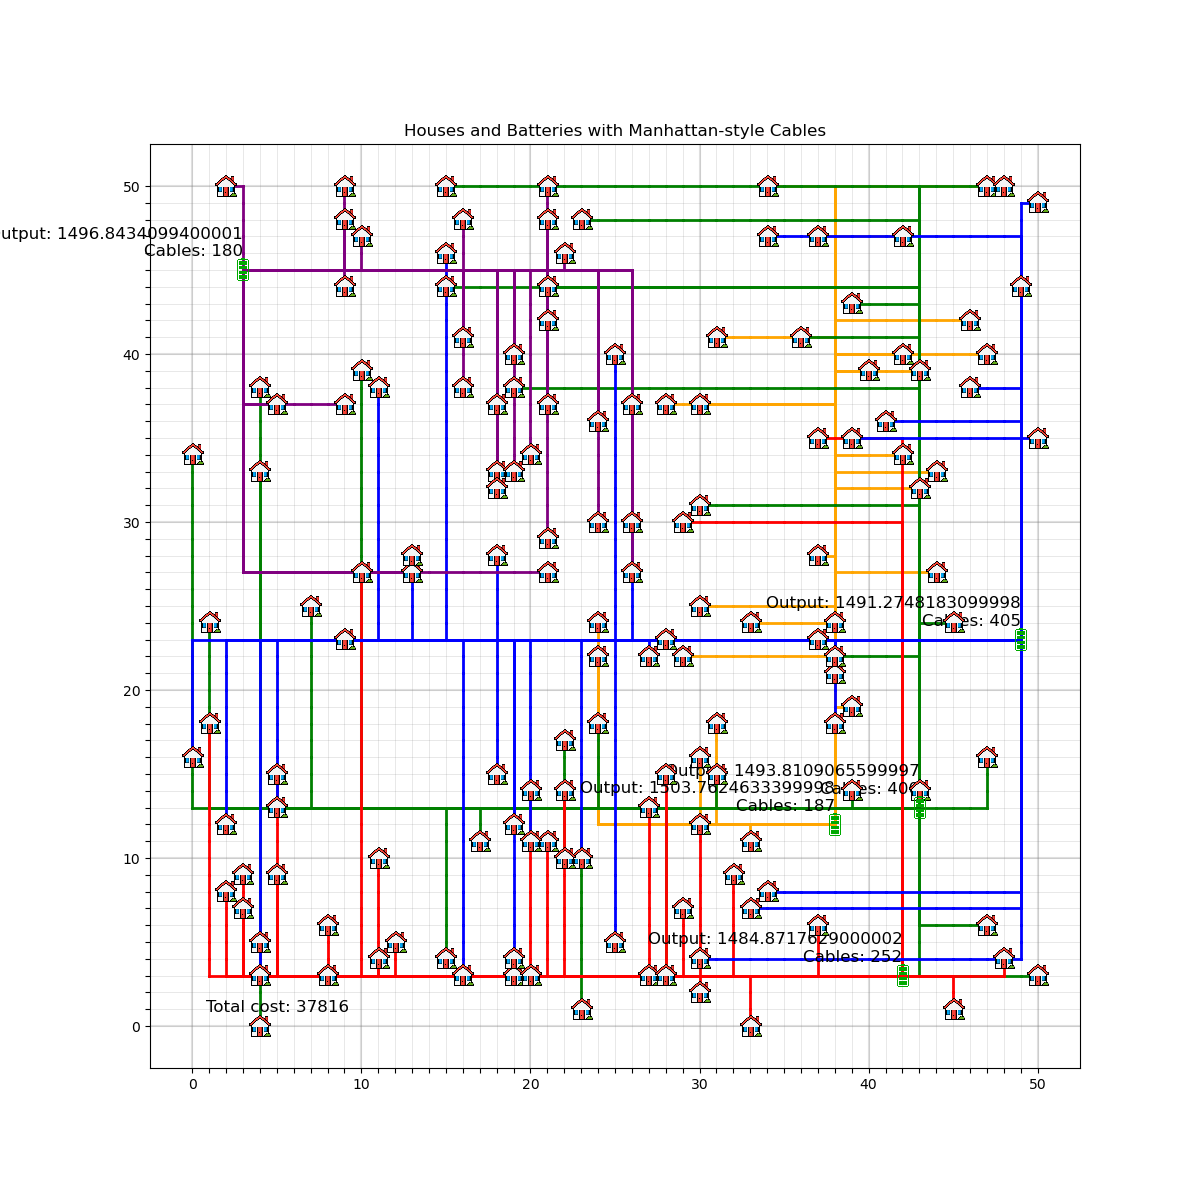
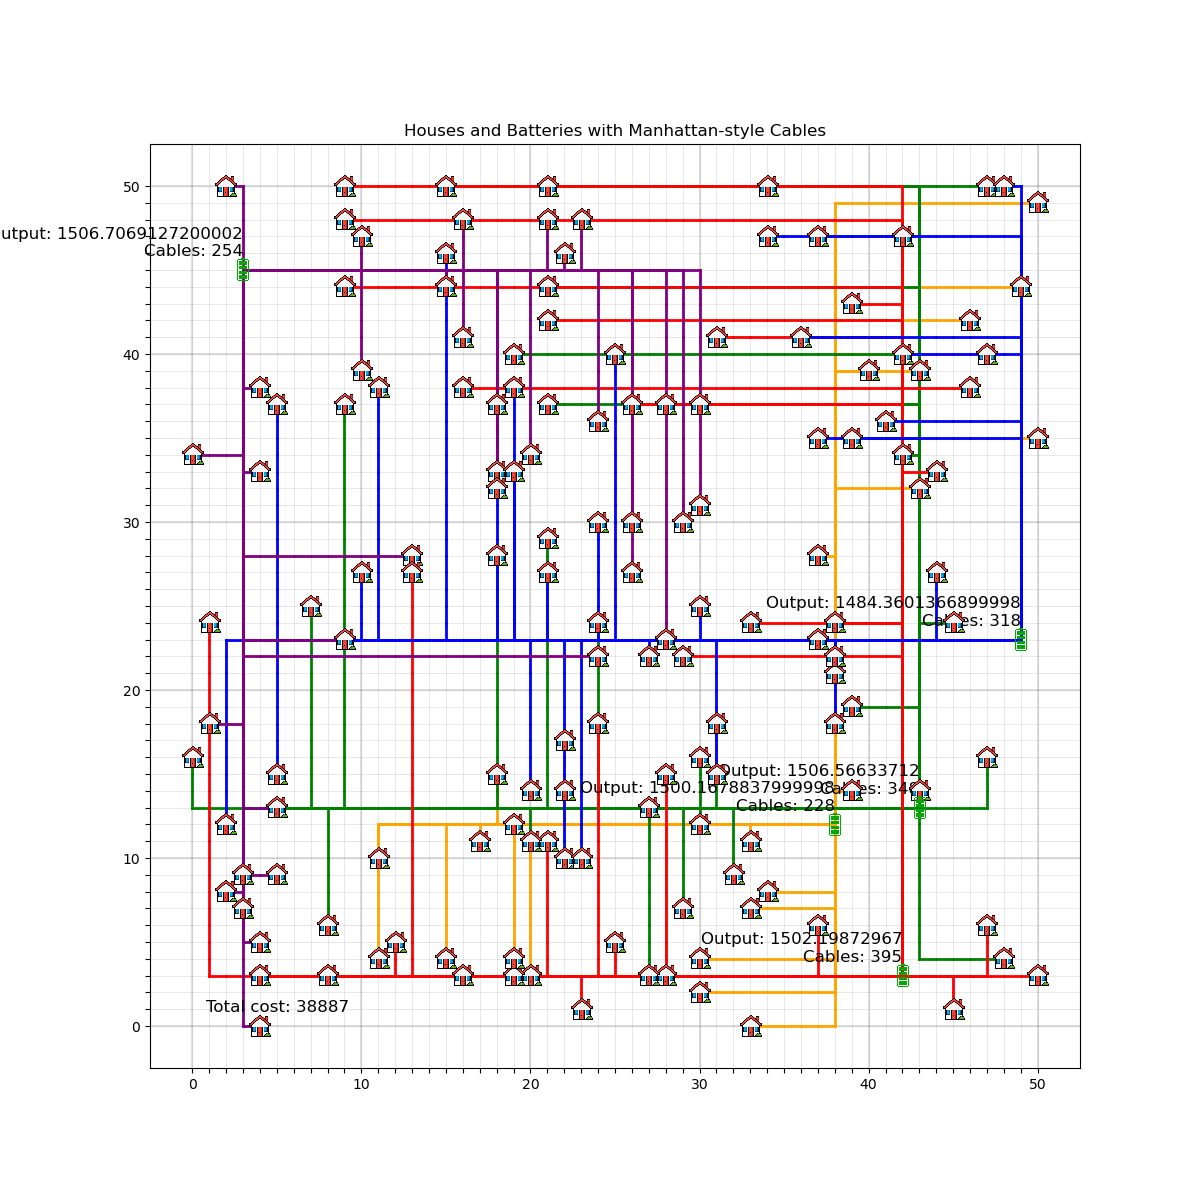
might have fixed the plotting issue with HC algo

diff --git a/Hillclimber.py b/Hillclimber.py
@@ -29,12 +29,14 @@ class HillClimber:
 
     # Save a copy of the district's current state in case it needs to be restored
     def save_state(self):
-        return copy.deepcopy(self.district)
+        saved_state = copy.deepcopy(self.district)
+        saved_cables = copy.deepcopy(self.district.cables)
+        return (saved_state, saved_cables)
 
     # Restore the district's state to the saved state
-    def restore_state(self, saved_state):
+    def restore_state(self, saved_state, saved_cables):
         self.district = saved_state
-
+        self.district.cables = saved_cables
 
     def modify_house_order(self):
         """
@@ -64,12 +66,11 @@ class HillClimber:
             self.connect_houses_to_batteries(removed_houses)
 
             # Check of there are more or less than 150 houses connected to batteries, if so, restore the state
-            total_houses = 0
-            for battery in district.batteries:
-                total_houses += len(battery.connected_houses)
+            total_houses = sum(len(battery.connected_houses) for battery in self.district.batteries)
             if total_houses != 150:
-                saved_state = self.save_state()
-                self.restore_state(saved_state)
+                saved_state, saved_cables = self.save_state() 
+                self.restore_state(saved_state, saved_cables)
+                
 
 
     def find_nearest_object_x(self, house):
@@ -283,7 +284,7 @@ class HillClimber:
         saved_districts = []
         
         for iteration in tqdm(range(self.iterations), desc="Optimizing"):
-            saved_state = self.save_state()
+            saved_state, saved_cables = self.save_state()
             self.modify_house_order()
             new_cost = self.calculate_total_cost()
 
@@ -292,7 +293,7 @@ class HillClimber:
                 self.saved_state = self.district
                 # print(f"New cost: {self.current_cost}")
             else:
-                self.restore_state(saved_state)
+                self.restore_state(saved_state, saved_cables)
 
             costs.append(self.current_cost)  # Store cost after each iteration
 
@@ -301,7 +302,7 @@ class HillClimber:
                 visualize(saved_state, iteration, True)
                 print(costs[-1])
 
-        return costs, saved_districts# Return the list of costs
+        return costs, saved_state# Return the list of costs
 
 
 
@@ -312,7 +313,7 @@ dijckstra_instance = dijckstra(district)
 dijckstra_instance.connect_houses_to_batteries()
 hillclimber = HillClimber(district, 4, 2)
 costs, saved_districts = hillclimber.hill_climb()
-print(saved_districts)
+print(saved_districts.houses)
 print(costs)
 
 
